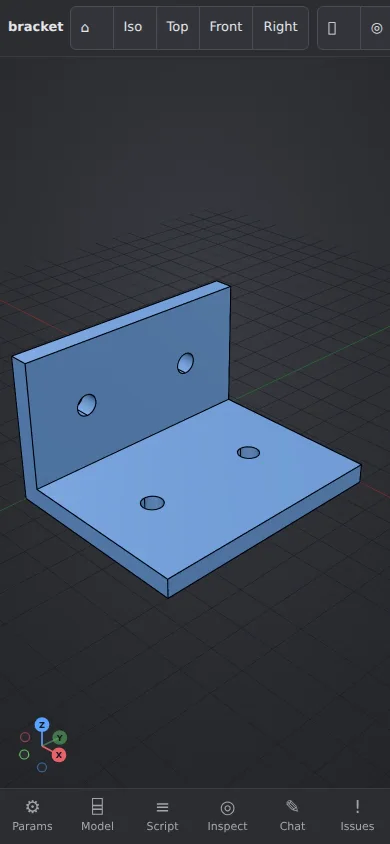
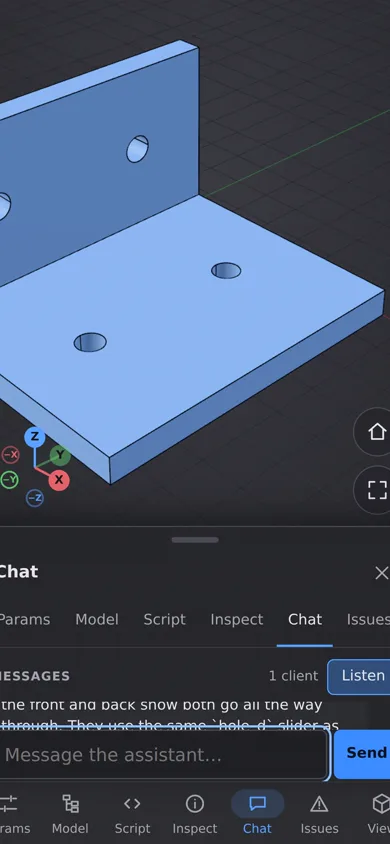
cadpole site: new desktop and phone recordings of the current app; absolute link-preview addresses
- The recording is made again on a desktop window and on a phone: the
  current app with Listen, the streamed reply and inch units, 60 fps,
  cuts marked. New captions for both; media.lock.json pins the new files.
- og:url and og:image are absolute, from one SITE_URL constant, with a
  check.

Platypus-RevId: 9c8af1c12021ad994f4acc996e77d00af8ab8b1e

diff --git a/site/checks/links.spec.ts b/site/checks/links.spec.ts
@@ -72,6 +72,10 @@ test("the words the page does not use", () => {
   expect(html).toContain("https://github.com/bazelbuild/bazelisk#installation");
   expect(html).not.toContain("bazelisk-linux-amd64");
   expect(html).toContain("./bin/install");
+  // Link previews: absolute addresses for the page and its picture.
+  expect(html).toContain('<meta property="og:url" content="https://mikelikespie.github.io/cadpole/">');
+  expect(html).toContain('<meta property="og:image" content="https://mikelikespie.github.io/cadpole/og.png">');
+  expect(html).toContain('<meta name="twitter:card" content="summary_large_image">');
   expect(html).not.toContain("bazel-opt-bin");
   expect(html).toContain("Apache-2.0");
 });

diff --git a/site/README.md b/site/README.md
@@ -53,7 +53,7 @@ raster pictures (1.2 MB), the vector drawings as SVG, PDF and DXF and the one
 picture drawn under them (2.0 MB), the scenes' first frames (0.3 MB), the
 social card, the icons and the recording's poster frames.
 
-Not in the tree, 39 MB: the four scenes' frame sets (846 pictures in AVIF and
+Not in the tree, 44 MB: the four scenes' frame sets (846 pictures in AVIF and
 WebP) and the recording (four video files). They take hours of path tracing
 to make and change rarely, so the tree holds their recipe and
 `media.lock.json` holds their count and digest per directory.
